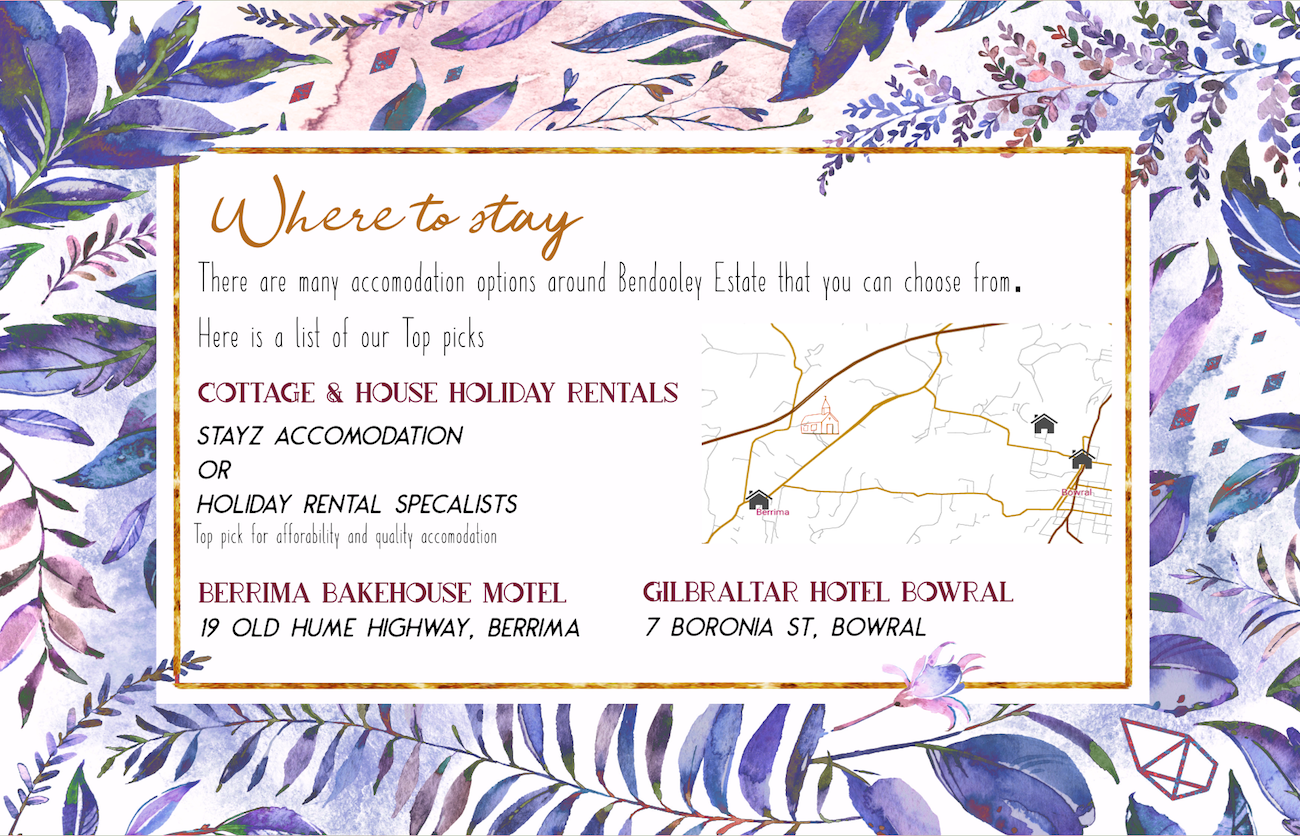
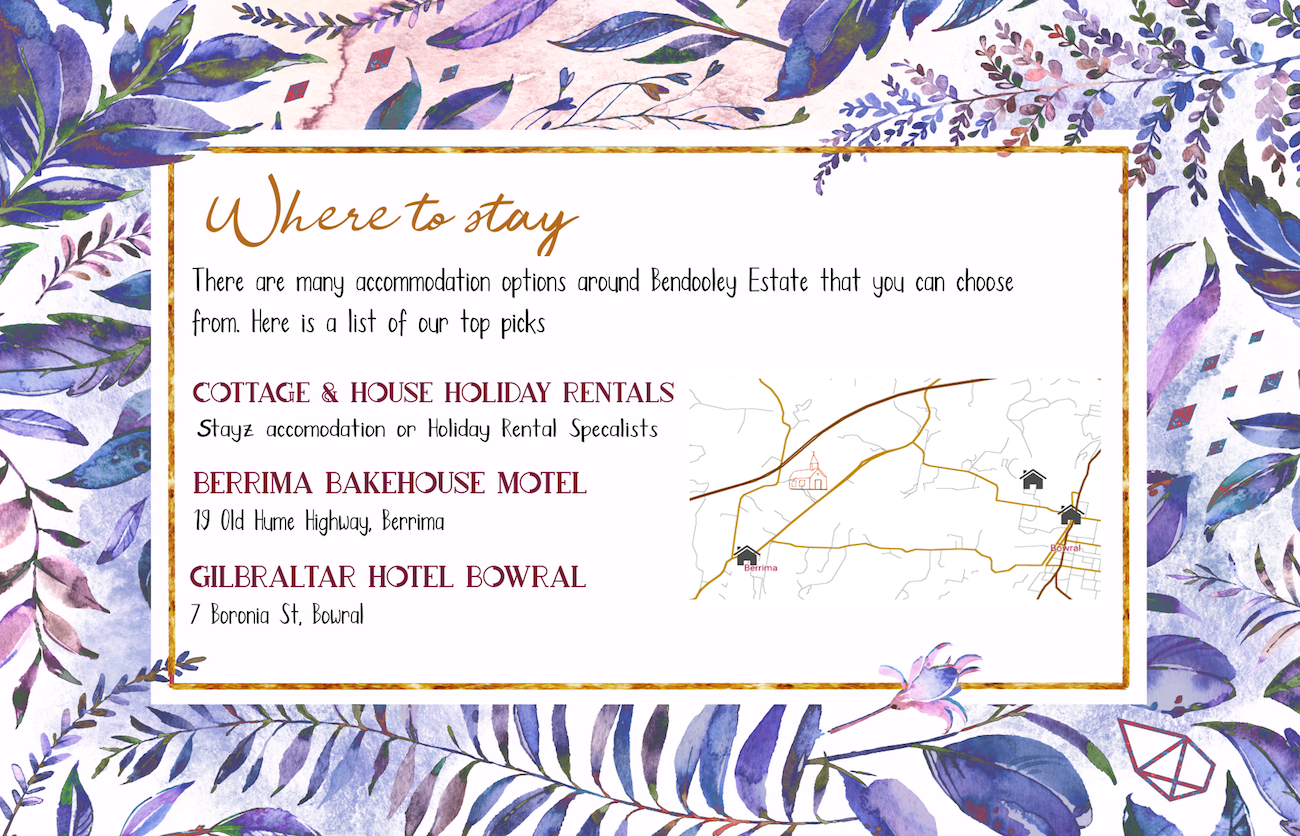
Updated screens, fixing issues with layout, spelling, grammer etc

Changed region(s): [[0.0, 0.0, 1.0, 1.0], [0.6462, 0.622, 0.6769, 0.6531]]

diff --git a/static/index.html b/static/index.html
@@ -36,21 +36,22 @@
                 <p id="daysCountdown"></p>
             </section>
             
+            <!--
             <section id="our-story" class="carousel slide">
                 <div class="carousel-inner">
                     <div class="active item">
-                        <img src="img/bg/backgroundObject1-0.jpg" width="1300" height="768">
+                        <img src="img/bg/backgroundObject1-0.png" width="1300" height="768">
                     </div>
-                    <!--
+                    
                     <div class="item">
                         <img src="img/bg/backgroundObject1-1.jpg" width="1300" height="768">
                     </div>
                     <div class="item">
                         <img src="img/bg/backgroundObject1-2.jpg" width="1300" height="768">
                     </div>
-                    -->
+                    
                 </div>
-                <!--
+                
                 <a class="carousel-control left icn-slideshow-left" href="#our-story" data-slide="prev">&lsaquo;</a>
                 <a class="carousel-control right icn-slideshow-right" href="#our-story" data-slide="next">&rsaquo;</a>
                 
@@ -61,15 +62,17 @@
                     <li data-target="#our-story" data-slide-to="2"></li>
                     
                 </ol>
-                -->
-            </section>
-            
-            <!-- 
-            <section id="our-story" data-bg="img/bg/backgroundObject1-0.jpg">
+                
             </section>
             -->
+            
+            
+            <section id="our-story" data-bg="img/bg/backgroundObject1-0.png">
+                <h1 class="our-story">Our Story</h1>
+            </section>
+            
 
-            <section id="festivity-details" data-bg="img/bg/backgroundObject2.jpg">
+            <section id="festivity-details" data-bg="img/bg/backgroundObject2.png">
             </section>
 
             <section id="weekend-activities" data-bg="img/bg/backgroundObject3.jpg">
@@ -104,57 +107,6 @@
                     </ol>
                 </div>
             </section>
-
-            <!--<section id="gallery" class="carousel slide">
-                <div class="carousel-inner">
-                    <div class="active item">
-                        <img src="img/gallery/gallery1.jpg" width="1300" height="768">
-                    </div>
-                    <div class="item">
-                        <img src="img/gallery/gallery2.jpg" width="1300" height="768">
-                    </div>
-                    <div class="item">
-                        <img src="img/gallery/gallery3.jpg" width="1300" height="768">
-                    </div>
-                    <div class="item">
-                        <img src="img/gallery/gallery4.jpg" width="1300" height="768">
-                    </div>
-                    <div class="item">
-                        <img src="img/gallery/gallery5.jpg" width="1300" height="768">
-                    </div>
-                    <div class="item">
-                        <img src="img/gallery/gallery6.jpg" width="1300" height="768">
-                    </div>
-                    <div class="item">
-                        <img src="img/gallery/gallery7.jpg" width="1300" height="768">
-                    </div>
-                    <div class="item">
-                        <img src="img/gallery/gallery8.jpg" width="1300" height="768">
-                    </div>
-                    <div class="item">
-                        <img src="img/gallery/gallery9.jpg" width="1300" height="768">
-                    </div>
-                    <div class="item">
-                        <img src="img/gallery/gallery10.jpg" width="1300" height="768">
-                    </div>
-                </div>
-                <div class="carousel-indicators-wrap">
-                    <ol class="carousel-indicators">
-                        <li data-target="#gallery" data-slide-to="0" class="active"></li>
-                        <li data-target="#gallery" data-slide-to="1"></li>
-                        <li data-target="#gallery" data-slide-to="2"></li>
-                        <li data-target="#gallery" data-slide-to="3"></li>
-                        <li data-target="#gallery" data-slide-to="4"></li>
-                        <li data-target="#gallery" data-slide-to="5"></li>
-                        <li data-target="#gallery" data-slide-to="6"></li>
-                        <li data-target="#gallery" data-slide-to="7"></li>
-                        <li data-target="#gallery" data-slide-to="8"></li>
-                        <li data-target="#gallery" data-slide-to="9"></li>
-                    </ol>
-                </div>
-                <a class="carousel-control left icn-slideshow-left" href="#gallery" data-slide="prev">&lsaquo;</a>
-                <a class="carousel-control right icn-slideshow-right" href="#gallery" data-slide="next">&rsaquo;</a>
-            </section>-->
 
             <section id="registry" data-bg="img/bg/backgroundObject5.png">
             </section>
@@ -232,7 +184,7 @@
                         <input type="radio" name="entry.1263165735" id="rsvpButtonAccept" value="Accept"/>
                         <label id="rsvpButtonLabelAccept" for="rsvpButtonAccept">Gratefully accept</label>
                         <input type="radio" name="entry.1263165735" id="rsvpButtonDecline" value="Decline"/>
-                        <label id="rsvpButtonLabelDecline" for="rsvpButtonDecline">Decline with regret</label>
+                        <label id="rsvpButtonLabelDecline" for="rsvpButtonDecline">Regrettably decline</label>
 
                         <label id="rsvpDietaryReqLabel"> Dietary Requirements</label>
                         <input type="text" name=entry.1483400416 id="rsvpDietaryReq"/>

diff --git a/static/css/screen.css b/static/css/screen.css
@@ -385,8 +385,20 @@ z-index:99999;
 
 /* line 287, ../sass/screen.scss */
 #our-story {
-  height: 768px;
+  height: 836px;
   z-index: 2;
+}
+
+h1.our-story {
+  position: absolute;
+  text-align: left;
+  font-family: "Limerence";
+  font-size: 350%;
+  color: rgb(195, 149, 13);
+  left: 8%;
+  top: 10%;
+  height: 15%;
+  width: 40%;
 }
 /* line 291, ../sass/screen.scss */
 #our-story .carousel-inner {
@@ -466,49 +478,6 @@ z-index:99999;
   color: #a29061;
 }
 
-/* line 365, ../sass/screen.scss */
-#gallery {
-  height: 768px;
-}
-/* line 368, ../sass/screen.scss */
-#gallery .carousel-indicators-wrap {
-  position: absolute;
-  left: 0;
-  bottom: 0;
-  width: 100%;
-  height: 51px;
-  line-height: 51px;
-  background: #222;
-  background: rgba(0, 0, 0, 0.5);
-}
-/* line 379, ../sass/screen.scss */
-#gallery .carousel-indicators {
-  top: 22px;
-  bottom: 0;
-  left: 517px;
-  width: 350px;
-}
-/* line 385, ../sass/screen.scss */
-#gallery .carousel-indicators li {
-  margin-left: 15px;
-}
-/* line 390, ../sass/screen.scss */
-#gallery .copyright {
-  color: #ddd;
-  position: absolute;
-  top: 0;
-  right: 10%;
-  font-size: 9px;
-  font-size: 0.64286rem;
-  font-family: "brandon", sans-serif;
-  text-transform: uppercase;
-}
-/* line 399, ../sass/screen.scss */
-#gallery .copyright a, #gallery .copyright a:visited {
-  color: #ddd;
-  letter-spacing: 1px;
-}
-
 /* line 569, ../sass/screen.scss */
 #festivity-details {
   height: 836px;
@@ -563,118 +532,118 @@ z-index:99999;
 
 #rsvpILabel {
   position: absolute;
-  font-size: 250%;
+  font-size: 200%;
   left: 15%;
   top: 20%;
-  height: 100px;
-  width: 100px;
+  height: 5%;
+  width: 5%;
   color: rgb(32, 31, 107);
 }
 
 #rsvpSelectName {
   position: absolute;
-  font-size: 35px;
+  font-size: 200%;
   left: 16.5%;
   top: 20%;
-  height: 50px;
-  width: 300px;
+  height: 5%;
+  width: 25%;
   color: rgb(32, 31, 107);
 }
 
 #rsvpButtonAccept {
   position: absolute;
   left: 15%;
-  top: 30%;
-  height: 50px;
-  width: 300px;
+  top: 31%;
+  height: 2%;
+  width: 2%;
 }
 
 #rsvpButtonLabelAccept {
   position: absolute;
-  font-size: 35px;
+  font-size: 200%;
   left: 17%;
-  top: 30%;
-  height: 50px;
-  width: 300px;
+  top: 29.5%;
+  height: 10%;
+  width: 30%;
 }
 
 #rsvpButtonDecline {
   position: absolute;
   left: 15%;
-  top: 35%;
-  height: 50px;
-  width: 300px;
+  top: 36.5%;
+  height: 2%;
+  width: 2%;
 }
 
 #rsvpButtonLabelDecline {
   position: absolute;
-  font-size: 35px;
+  font-size: 200%;
   left: 17%;
   top: 35%;
-  height: 50px;
-  width: 300px;
+  height: 10%;
+  width: 30%;
 }
 
 #rsvpDietaryReqLabel {
   position: absolute;
-  font-size: 35px;
+  font-size: 200%;
   left: 15%;
   top: 44%;
-  height: 50px;
+  height: 5%;
   width: 50%;
 }
 
 #rsvpDietaryReq {
   position: absolute;
-  font-size: 35px;
+  font-size: 200%;
   left: 15%;
   top: 50%;
-  height: 50px;
+  height: 5%;
   width: 30%;
 }
 
 #rsvpSelectShuttleLabel {
   position: absolute;
-  font-size: 35px;
+  font-size: 200%;
   left: 15%;
   top: 59%;
-  height: 100px;
+  height: 15%;
   width: 70%;
 }
 
 #rsvpSelectShuttle {
   position: absolute;
-  font-size: 35px;
+  font-size: 200%;
   right: 15%;
   top: 65%;
-  height: 50px;
-  width: 200px;
+  height: 5%;
+  width: 25%;
 }
 
 #rsvpPreDinnerLabel{
   position: absolute;
-  font-size: 35px;
+  font-size: 200%;
   left: 15%;
   top: 75%;
-  height: 50px;
+  height: 5%;
   width: 70%;
 }
 
 #rsvpSelectPreDinner{
   position: absolute;
-  font-size: 35px;
+  font-size: 200%;
   left: 15%;
   top: 80%;
-  height: 50px;
-  width: 200px;
+  height: 5%;
+  width: 25%;
 }
 
 #rsvpSubmitButton{
   position: absolute;
   font-family: "Limerence";
-  font-size: 35px;
+  font-size: 200%;
   color: rgb(195, 149, 13);
-  right: 1.3%;
+  right: 2%;
   bottom: 2%;
   height: 15%;
   width: 10%;
@@ -845,7 +814,6 @@ z-index:99999;
 /* line 917, ../sass/screen.scss */
 .carousel-control:hover,
 .carousel-control:focus {
-  color: #ffffff;
   text-decoration: none;
   filter: alpha(opacity=90);
   -ms-filter: "progid:DXImageTransform.Microsoft.Alpha(Opacity=90)";
